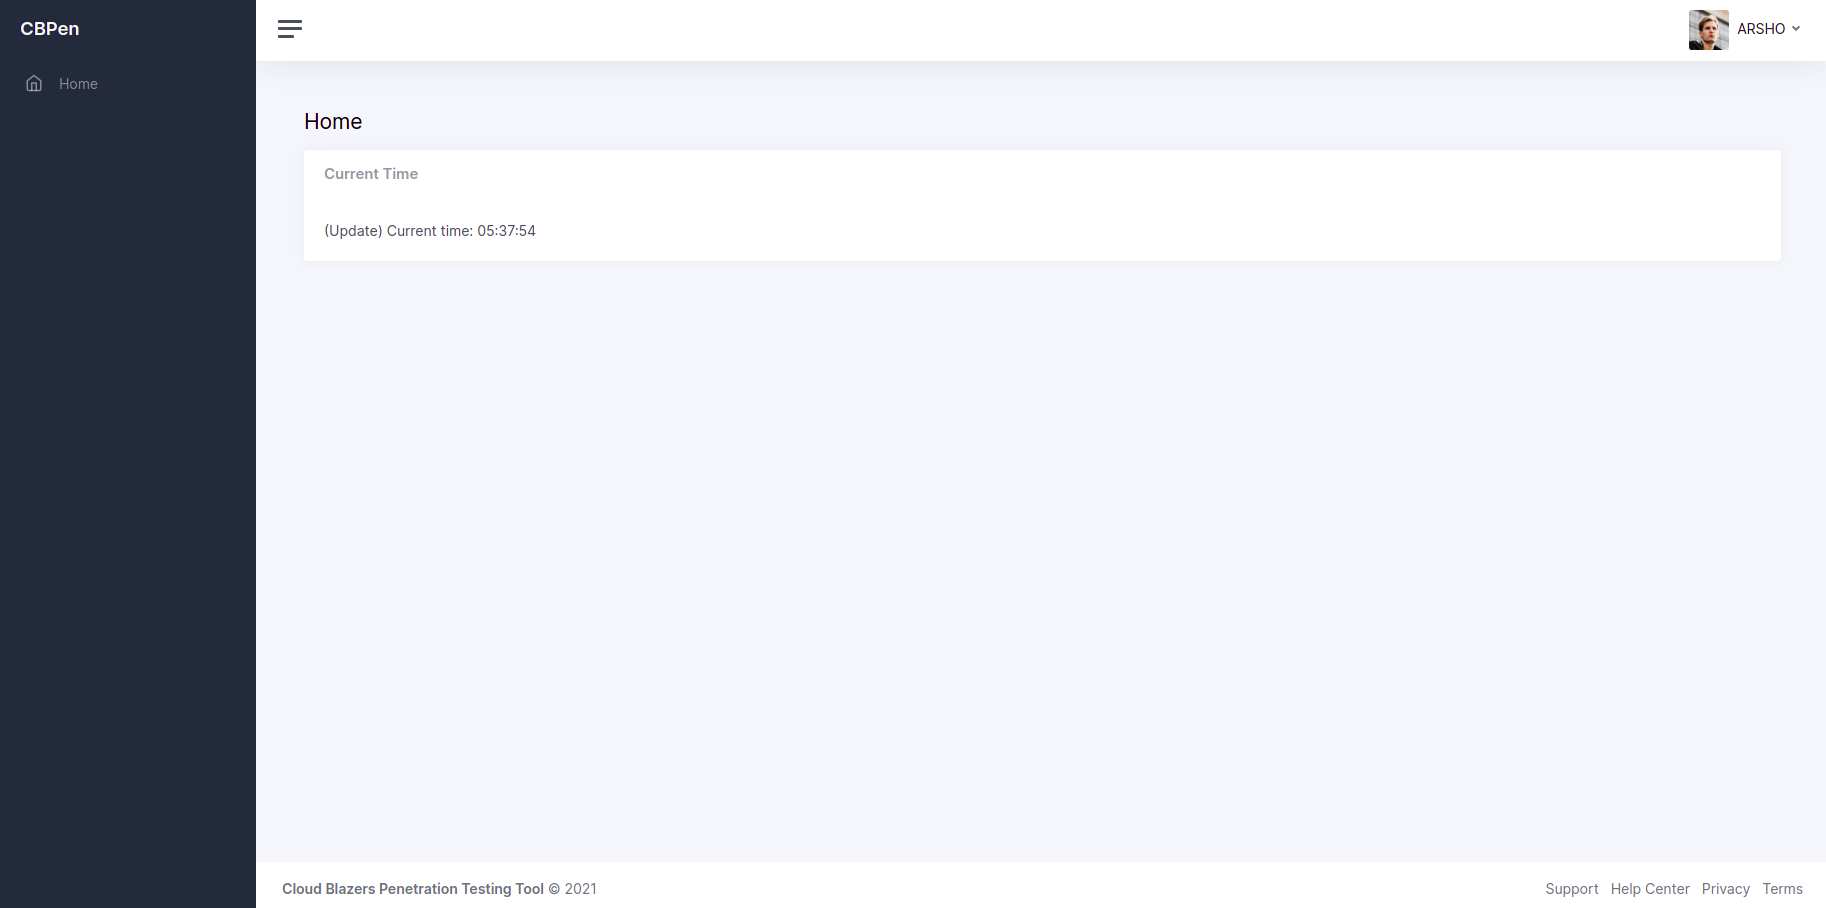
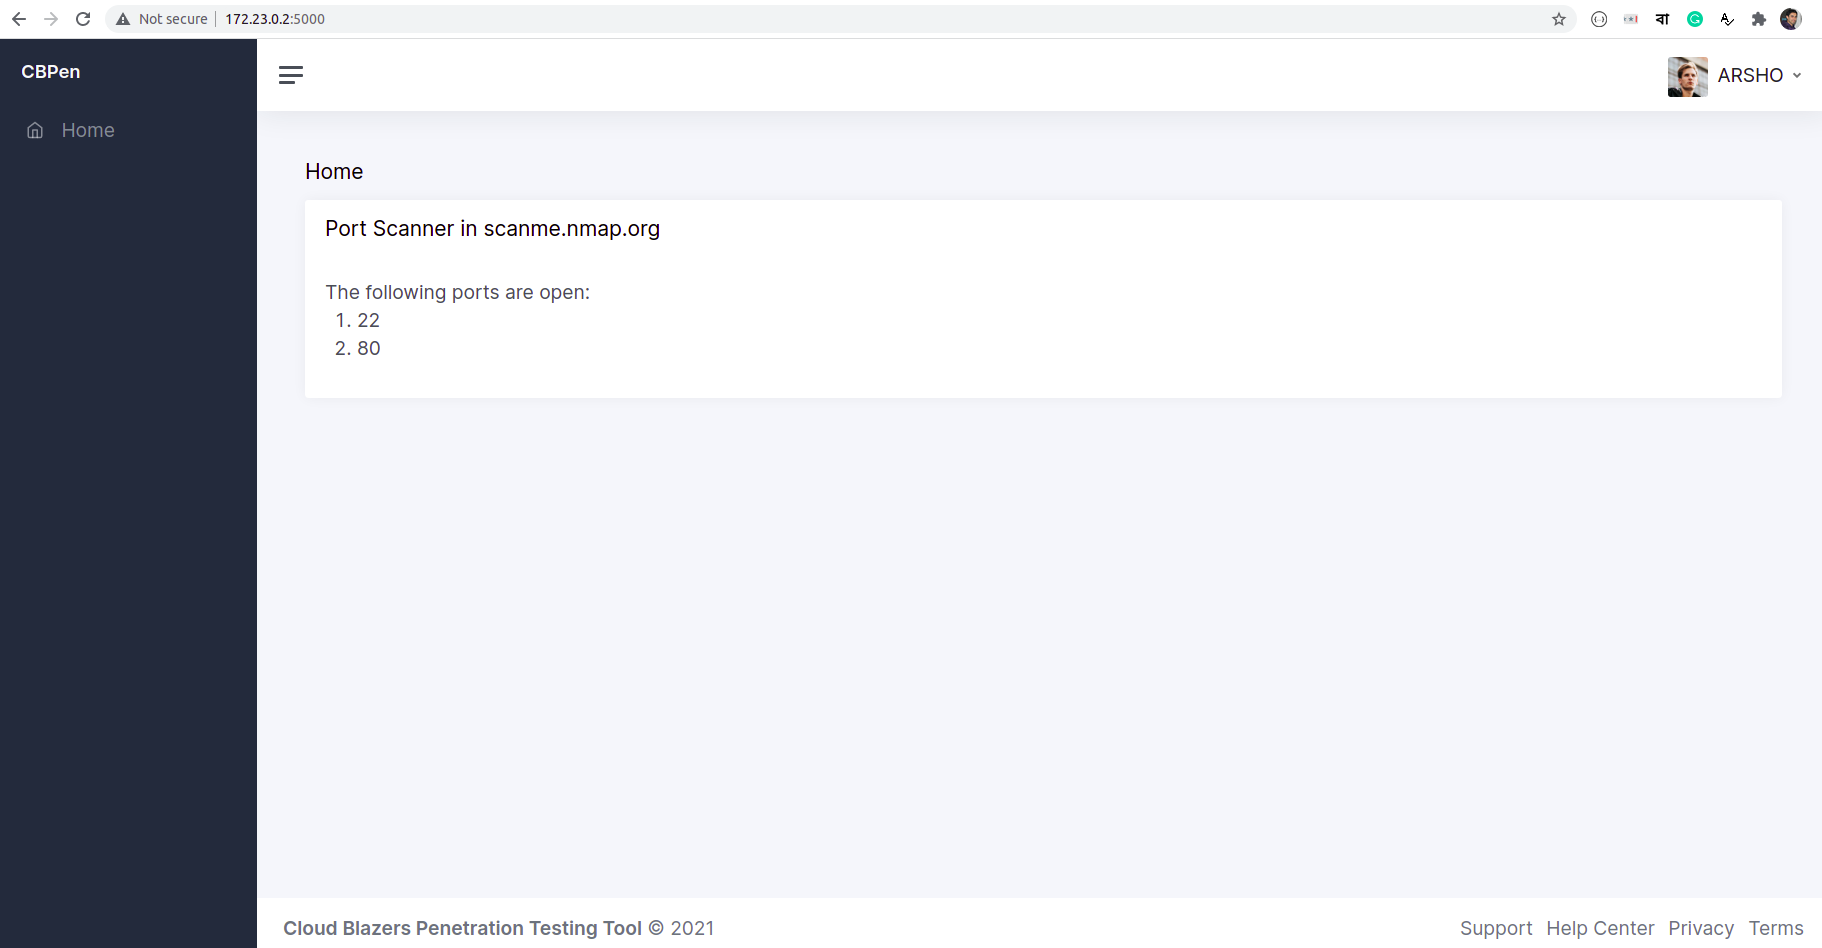
added basic port scanner and hot reload of flask app

diff --git a/templates/index.html b/templates/index.html
@@ -8,11 +8,18 @@
         <div class="col-12">
             <div class="card">
                 <div class="card-header">
-                    <h5 class="card-title mb-0">Current Time</h5>
+                    <h3 class="mb-0">Port Scanner in {{ site }}</h3>
                 </div>
                 <div class="card-body">
-                    {% if data %}
-                        {{ data }}
+                    {% if open_ports %}
+                        The following ports are open:
+                        <ol>
+                            {% for port in open_ports %}
+                                <li> {{ port }}</li>
+                            {% endfor %}
+                        </ol>
+                    {% else %}
+                        <h3>No open ports is found</h3>
                     {% endif %}
                 </div>
             </div>

diff --git a/static/css/custom.css b/static/css/custom.css
@@ -1,0 +1,3 @@
+body{
+    font-size: 120%;
+}

diff --git a/controller.py b/controller.py
@@ -1,0 +1,22 @@
+from socket import gethostbyname, socket, AF_INET, SOCK_STREAM
+
+
+def get_open_ports(target, common=False, start_port=80, end_port=81):
+    host_ip = gethostbyname(target)
+    open_ports = []
+    # Common ports
+    # 80 (http), 443 (https)
+    # SSH (port 22), FTP (port 21)
+    # DNS (port 53), POP3 (port 110)
+    ports = [80, 443, 22, 21, 53, 110]
+    if common == False:
+        ports = list([i for i in range(50, 500)])
+
+    for i in ports:
+        connection = socket(AF_INET, SOCK_STREAM)
+        status = connection.connect_ex((host_ip, i))
+        if status == 0:
+            open_ports.append(i)
+        connection.close()
+
+    return sorted(open_ports)

diff --git a/app.py b/app.py
@@ -1,15 +1,16 @@
-import time
 from flask import Flask, render_template, flash, redirect, request, url_for, g, \
     Markup, escape
+from controller import get_open_ports
 
 app = Flask(__name__)
 
 
 @app.route('/')
 def index():
-    time_in_seconds = time.localtime()
-    current_time = time.strftime("%H:%M:%S", time_in_seconds)
-    message = "(Update) Current time: {}".format(current_time)
+    site = "scanme.nmap.org"
+    open_ports = get_open_ports(site, common=True)
     return render_template(
-        'index.html', data=message
+        'index.html',
+        site=site,
+        open_ports=open_ports
     )

diff --git a/readme.md b/readme.md
@@ -32,4 +32,5 @@ docker system prune -a
 ### Reference
 - [Docker compose tutorial](https://docs.docker.com/compose/gettingstarted/)
 - [How To Remove Docker Images, Containers, and Volumes](https://www.digitalocean.com/community/tutorials/how-to-remove-docker-images-containers-and-volumes)
+- [Writing a Basic Port Scanner in Python](https://westoahu.hawaii.edu/cyber/forensics-weekly-executive-summmaries/writing-a-basic-port-scanner-in-python/)
 - [Icons class in template](https://demo-basic.adminkit.io/icons-feather.html)
